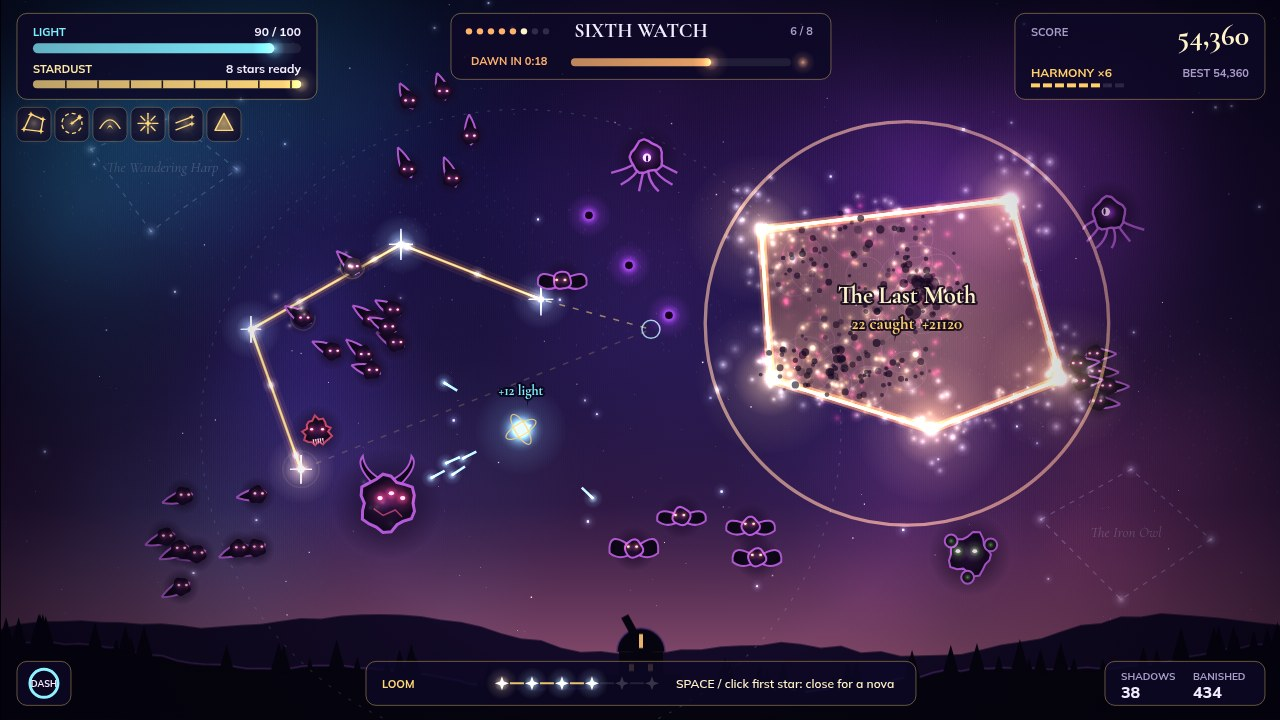
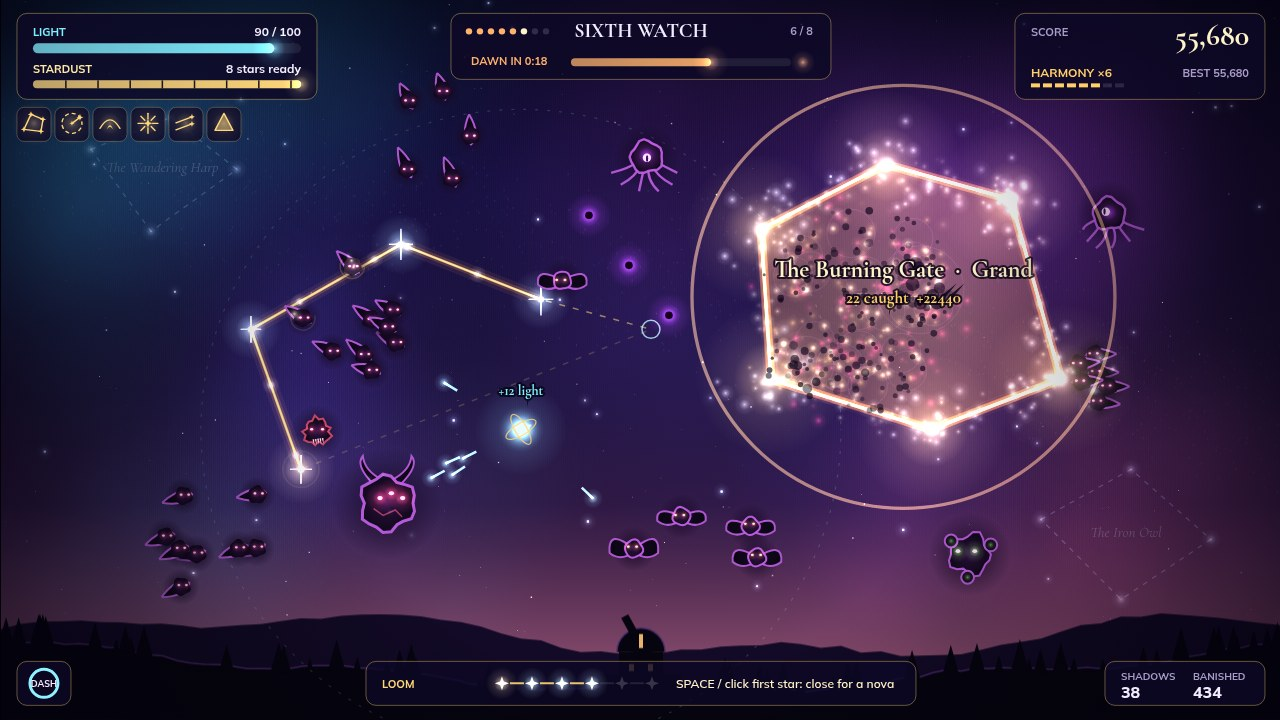
Add Grand Constellation bonus, clear the sky at dawn, refresh screenshots

diff --git a/game/src/loom.js b/game/src/loom.js
@@ -101,7 +101,9 @@ export function closeConstellation(world) {
   }
   const pts = stars.map((s) => ({ x: s.x, y: s.y }));
   const area = polygonArea(pts);
-  const damage = (LOOM.novaBase + LOOM.novaPerStar * pts.length) * (1 + Math.min(1.5, area * LOOM.novaAreaBonus)) * world.stats.novaMult;
+  // A full loom (every star slot used) is a Grand Constellation: a third more power, a risk rewarded.
+  const grand = pts.length >= world.stats.maxStars;
+  const damage = (LOOM.novaBase + LOOM.novaPerStar * pts.length) * (1 + Math.min(1.5, area * LOOM.novaAreaBonus)) * world.stats.novaMult * (grand ? 1.35 : 1);
   const c = centroid(pts);
   const name = constellationName(world.rng, pts.length);
   const hits = strike(world, pts, damage, name);
@@ -128,7 +130,7 @@ export function closeConstellation(world) {
   world.addScore(bonus);
   const bossHit = world.boss && !world.boss.dead && pointInPolygon(world.boss.x, world.boss.y, pts);
   const ny = bossHit ? Math.min(...pts.map((p) => p.y)) + 30 : c.y - 10;
-  popup(fx, c.x, ny, name, PALETTE.silkHot, 24, 1.8);
+  popup(fx, c.x, ny, grand ? `${name}  ·  Grand` : name, PALETTE.silkHot, 24, 1.8);
   const caught = bossHit ? `The Eclipse is struck  ·  ${Math.round(damage)}` : hits > 0 ? `${hits} caught  +${Math.round(bonus * world.harmony)}` : 'empty sky';
   popup(fx, c.x, ny + 26, caught, hits > 0 ? PALETTE.nova : PALETTE.muted, 17, 1.6);
   world.loom.signs.push({ pts, name, age: 0 });

diff --git a/game/src/world.js b/game/src/world.js
@@ -237,6 +237,11 @@ export function stepWorld(world, input, dt) {
           world.phase = PHASE_VICTORY;
           world.phaseTime = 0;
           world.addScore(Math.round(world.weaver.light) * 20);
+          // Dawn breaks: every remaining shadow and orb burns away, the open chain is let go.
+          for (const s of world.shadows) burst(world.fx, world.rng, s.x, s.y, PALETTE.dawn, 12, 160, 1, 2.4);
+          world.shadows = [];
+          world.orbs = [];
+          unravel(world, true);
           world.emit('victory');
         } else ringDawnBell(world);
       }

diff --git a/game/src/shots.js b/game/src/shots.js
@@ -90,7 +90,7 @@ function stageCover(world, app) {
   swarm(world, 'flitter', 3, 760, 600, 60, 520, 430, 80);
   shadow(world, 'mire', 1010, 570, -40, -20);
   swarm(world, 'wisp', 5, 420, 80, 60, 520, 430, 70);
-  stars(world, [[760, 230], [1010, 200], [1060, 380], [930, 430], [770, 380]]);
+  stars(world, [[760, 230], [885, 165], [1010, 200], [1060, 380], [930, 430], [770, 380]]);
   run(world, 0.5);
   world.fx.particles.length = 0;
   closeConstellation(world);

diff --git a/game/src/hud.js b/game/src/hud.js
@@ -193,7 +193,7 @@ export function loomHint(world, aim) {
   const n = world.loom.stars.length;
   if (n === 0) return 'Click to pin the first star';
   if (n < 3) return 'Pin more stars: silk burns shadows';
-  if (n >= world.stats.maxStars) return 'Loom full: SPACE or click first star to close';
+  if (n >= world.stats.maxStars) return 'Full loom! Close now for a Grand nova';
   return 'SPACE / click first star: close for a nova';
 }
 

diff --git a/README.md b/README.md
@@ -21,6 +21,7 @@ in from the edges. You fight them by drawing constellations.
 - **Close the shape.** Click the first star again, or press Space. The chain ignites as a
   constellation and a **nova** strikes every shadow inside it. More stars, a bigger shape and a
   fuller net all hit harder. A net of three or more raises your **Harmony** score multiplier.
+  Close a shape that uses every star slot and it's a **Grand Constellation**, with a third more power.
   A big catch gives back some light. Getting hurt resets Harmony.
 - **Hold until dawn.** Each of the eight watches brings something new: wisps that swarm,
   flitters that weave, gnawers that eat your stars, Umbral Hulks that snap silk, lurkers that spit
